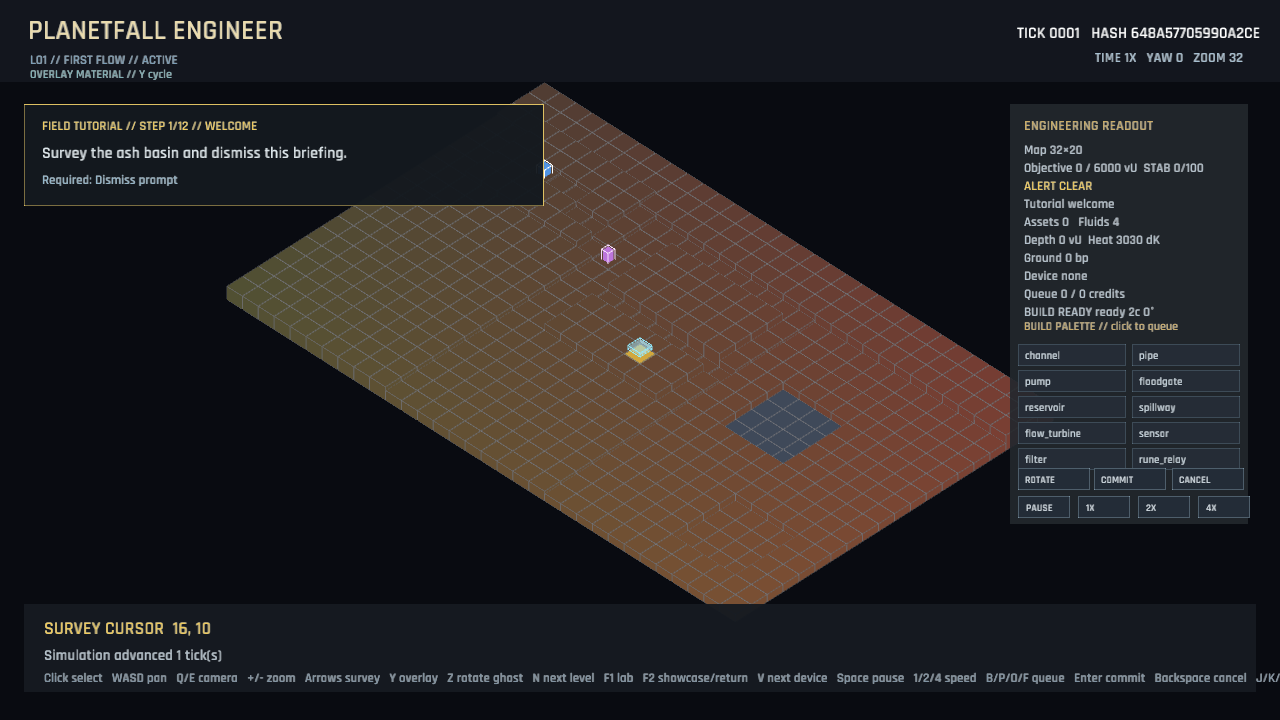
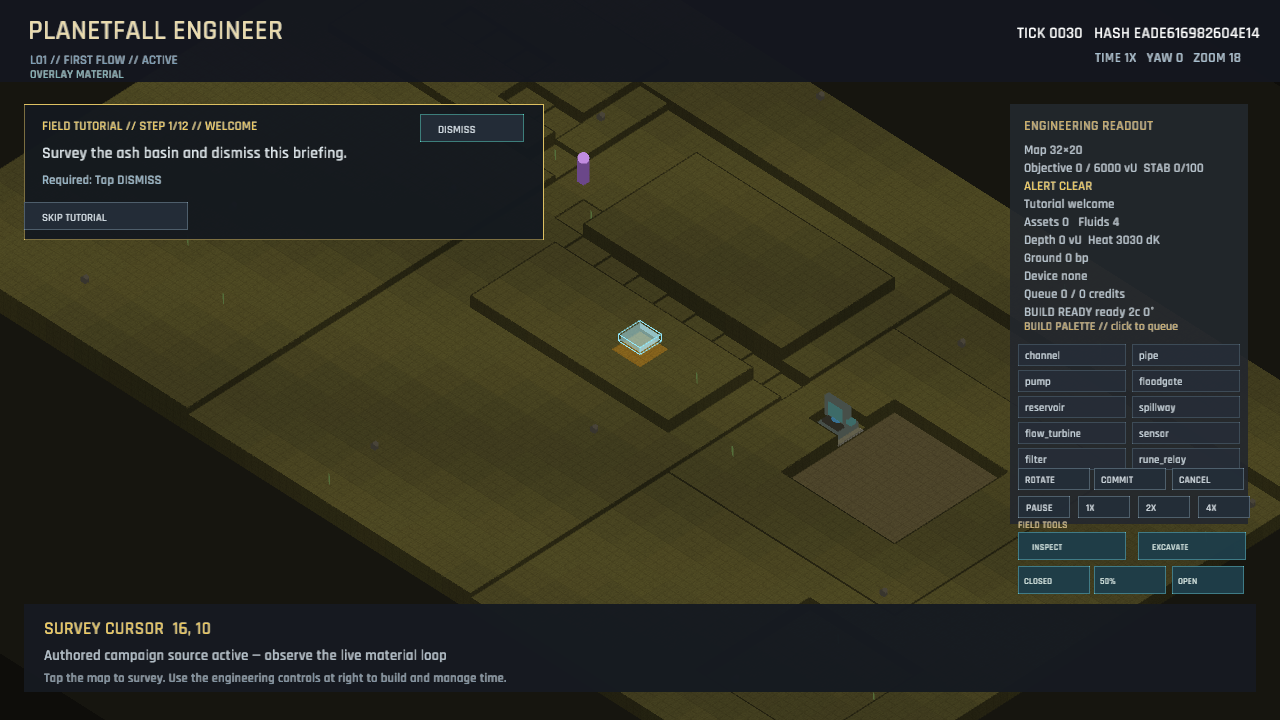
The survey camera finds terraces, channels, and machinery instead of a board (campaign diorama visuals)
Campaign captures framed entire maps as flat debug grids. Linear fluid depth produced tall colored blocks, protected zones repeated purple markers across every cell, conduit geometry ignored rotation, and L02/L03 lacked enough authored relief to communicate their routes.

Tighten the orthographic survey framing, add a grounded world apron and stepped terrain to the later maps, render shallow inset fluid surfaces with directional highlights, align pipe silhouettes, and replace marker grids with sparse expedition glyphs. The L01 source now uses hydraulic volume rather than a seven-step terrain tower, while preserving its gated 6,000 vU solution.

Regenerate the three active campaign captures after visual inspection. Verified with 72 tests and publish.ps1 for Windows/WebGL preview deployment.

diff --git a/src/game_render.rs b/src/game_render.rs
@@ -12,7 +12,7 @@ use macroquad_toolkit::prelude::{begin_virtual_ui_frame, end_virtual_ui_frame};
 
 impl Game {
     pub fn draw(&mut self) {
-        clear_background(Color::new(0.035, 0.045, 0.065, 1.0));
+        clear_background(Color::new(0.055, 0.052, 0.040, 1.0));
         if self.frontend_mode != FrontendMode::Playing {
             begin_virtual_ui_frame(ui::LOGICAL_WIDTH, ui::LOGICAL_HEIGHT);
             self.draw_frontend();
@@ -44,6 +44,12 @@ impl Game {
     fn draw_world(&self) {
         let selected = self.session.selected;
         let world = &self.session.simulation;
+        draw_cube(
+            vec3(world.width as f32 * 0.5, -0.32, world.height as f32 * 0.5),
+            vec3(world.width as f32 + 18.0, 0.5, world.height as f32 + 18.0),
+            None,
+            Color::new(0.09, 0.085, 0.062, 1.0),
+        );
         // The simulation is deliberately read directly here.  A former
         // presentation copy made mission briefings show a generic board until
         // the first tick, which was especially damaging to the diorama view.
@@ -67,7 +73,7 @@ impl Game {
                 if self.overlay_mode == 0 && cell.surface_volume() == 0 {
                     draw_terrain_scatter(pos, h, self.session.mission.id);
                 }
-                let surface_depth = cell.surface_volume() as f32 * 0.0005;
+                let surface_depth = visual_fluid_depth(cell.surface_volume());
                 if surface_depth > 0.0 {
                     let material = cell.surface.first().unwrap();
                     draw_fluid_surface(x, y, h, surface_depth, material.fluid, world.tick);
@@ -123,18 +129,19 @@ impl Game {
                     base + 0.22,
                     source.position.y as f32 + 0.5,
                 ),
-                vec3(0.42, 0.44, 0.42),
+                vec3(0.56, 0.16, 0.56),
                 None,
-                color,
+                Color::new(0.18, 0.17, 0.14, 1.0),
             );
-            draw_cube_wires(
+            draw_sphere(
                 vec3(
                     source.position.x as f32 + 0.5,
-                    base + 0.22,
+                    base + 0.25,
                     source.position.y as f32 + 0.5,
                 ),
-                vec3(0.5, 0.5, 0.5),
-                WHITE,
+                0.18,
+                None,
+                color,
             );
         }
         for (index, definition) in self.session.simulation.definitions.iter().enumerate() {
@@ -144,17 +151,33 @@ impl Game {
             let x = (index % self.session.simulation.width as usize) as f32 + 0.5;
             let y = (index / self.session.simulation.width as usize) as f32 + 0.5;
             let height = self.session.simulation.cells[index].height_hu as f32 * 0.0005;
-            draw_cube(
-                vec3(x, height + 0.28, y),
-                vec3(0.34, 0.56, 0.34),
-                None,
-                Color::new(0.74, 0.46, 0.86, 1.0),
-            );
-            draw_cube_wires(
-                vec3(x, height + 0.28, y),
-                vec3(0.42, 0.64, 0.42),
-                Color::new(0.96, 0.86, 0.98, 1.0),
-            );
+            let pos = CellPos {
+                x: x.floor() as u16,
+                y: y.floor() as u16,
+            };
+            let is_beacon = self.session.mission.id == crate::mission::MissionId::L01FirstFlow
+                && pos == CellPos { x: 10, y: 6 };
+            if is_beacon {
+                draw_cube(
+                    vec3(x, height + 0.35, y),
+                    vec3(0.22, 0.7, 0.22),
+                    None,
+                    Color::new(0.42, 0.28, 0.54, 1.0),
+                );
+                draw_sphere(
+                    vec3(x, height + 0.76, y),
+                    0.15,
+                    None,
+                    Color::new(0.76, 0.55, 0.88, 1.0),
+                );
+            } else if (u32::from(pos.x) * 3 + u32::from(pos.y) * 5) % 11 == 0 {
+                draw_cube(
+                    vec3(x, height + 0.025, y),
+                    vec3(0.34, 0.045, 0.34),
+                    None,
+                    Color::new(0.52, 0.42, 0.50, 0.72),
+                );
+            }
         }
         for event in &self.session.simulation.events {
             let crate::simulation::SimEvent::MaterialReacted {
@@ -246,16 +269,35 @@ fn draw_fluid_surface(x: u16, y: u16, ground: f32, depth: f32, fluid: FluidId, t
             ground + depth.max(0.035) * 0.5 + 0.018,
             y as f32 + 0.5,
         ),
-        vec3(0.995, depth.max(0.035), 0.995),
+        vec3(0.94, depth.max(0.035), 0.94),
         None,
         color,
     );
     draw_cube(
         vec3(x as f32 + 0.5, ground + depth + 0.038, y as f32 + 0.5),
-        vec3(0.985, 0.012, 0.985),
+        vec3(0.91, 0.012, 0.91),
         None,
         lighten(color, 0.22 + ripple),
     );
+    let stripe = if (x + y) % 2 == 0 { 0.26 } else { -0.26 };
+    draw_cube(
+        vec3(
+            x as f32 + 0.5 + stripe,
+            ground + depth + 0.052 + ripple,
+            y as f32 + 0.5,
+        ),
+        vec3(0.18, 0.014, 0.035),
+        None,
+        lighten(color, 0.38),
+    );
+}
+
+fn visual_fluid_depth(volume_vu: u32) -> f32 {
+    if volume_vu == 0 {
+        0.0
+    } else {
+        0.055 + (volume_vu as f32 / 8_000.0).clamp(0.0, 1.0).sqrt() * 0.42
+    }
 }
 
 fn draw_steam(x: u16, y: u16, ground: f32, depth: f32, tick: u64) {
@@ -381,10 +423,19 @@ fn draw_device_silhouette(
     draw_cube(center - vec3(0.0, 0.24, 0.0), base, None, metal);
     match device {
         DeviceId::Pipe => {
-            draw_cube(center, vec3(0.88, 0.18, 0.24), None, brass);
+            let pipe_size = if rotation % 2 == 0 {
+                vec3(0.88, 0.18, 0.24)
+            } else {
+                vec3(0.24, 0.18, 0.88)
+            };
+            draw_cube(center, pipe_size, None, brass);
             draw_cube(
                 center + vec3(0.0, 0.12, 0.0),
-                vec3(0.95, 0.04, 0.12),
+                if rotation % 2 == 0 {
+                    vec3(0.95, 0.04, 0.12)
+                } else {
+                    vec3(0.12, 0.04, 0.95)
+                },
                 None,
                 glow,
             );
@@ -497,7 +548,7 @@ fn terrain_color(
     mission: crate::mission::MissionId,
 ) -> Color {
     if cell.sealed {
-        return Color::new(0.25, 0.29, 0.27, 1.0);
+        return Color::new(0.38, 0.37, 0.31, 1.0);
     }
     if cell.formed_rock_vu > 0 {
         return Color::new(0.18, 0.20, 0.21, 1.0);
@@ -505,9 +556,9 @@ fn terrain_color(
     let noise = ((x as f32 * 0.41 + y as f32 * 0.73).sin() + 1.0) * 0.035;
     match mission {
         crate::mission::MissionId::L03Firebreak => {
-            Color::new(0.27 + noise, 0.18 + noise * 0.5, 0.13, 1.0)
+            Color::new(0.29 + noise, 0.20 + noise * 0.55, 0.14 + noise * 0.2, 1.0)
         }
-        _ => Color::new(0.34 + noise, 0.31 + noise, 0.23 + noise * 0.4, 1.0),
+        _ => Color::new(0.31 + noise, 0.32 + noise, 0.22 + noise * 0.45, 1.0),
     }
 }
 fn darken(c: Color, value: f32) -> Color {
@@ -550,8 +601,8 @@ fn verification_label(mode: VerificationMode) -> &'static str {
 
 fn fluid_color(fluid: FluidId) -> Color {
     match fluid {
-        FluidId::Water => Color::new(0.12, 0.48, 0.9, 0.78),
-        FluidId::Lava => Color::new(0.95, 0.22, 0.06, 0.9),
+        FluidId::Water => Color::new(0.06, 0.38, 0.58, 0.82),
+        FluidId::Lava => Color::new(0.96, 0.31, 0.045, 0.92),
         FluidId::ToxicSlurry => Color::new(0.62, 0.72, 0.16, 0.86),
         FluidId::Steam => Color::new(0.76, 0.86, 0.92, 0.38),
     }

diff --git a/src/campaign.rs b/src/campaign.rs
@@ -105,7 +105,7 @@ fn author_l01(world: &mut SimulationWorld) {
             set_height(world, CellPos { x, y }, 0);
         }
     }
-    set_height(world, CellPos { x: 21, y: 8 }, 7_000);
+    set_height(world, CellPos { x: 21, y: 8 }, 250);
     // The single meltwater source sits immediately upstream of the authored
     // inlet gate, so the tutorial's gate action is the only way water reaches
     // the sealed restoration basin.
@@ -126,6 +126,20 @@ fn author_l01(world: &mut SimulationWorld) {
 fn author_l02(world: &mut SimulationWorld) {
     set_ambient(world, 2_930);
     world.add_source(CellPos { x: 5, y: 16 }, FluidId::Water, 100);
+    for y in 0..world.height {
+        for x in 0..world.width {
+            let height = if y < 4 {
+                1_750
+            } else if x > 29 {
+                1_250
+            } else if x > 10 && y < 14 {
+                1_100
+            } else {
+                850
+            };
+            set_height(world, CellPos { x, y }, height);
+        }
+    }
     // Low aquifer and raised central reserve make pumping legible at a glance.
     for y in 13..=19 {
         for x in 2..=8 {
@@ -166,27 +180,27 @@ fn author_l02(world: &mut SimulationWorld) {
     // Two pipe runs are intentionally broken into twelve obvious gaps. They
     // read as infrastructure rather than a generic empty board and leave the
     // player with meaningful connection work.
-    for pos in [
-        (6, 16),
-        (7, 16),
-        (8, 16),
-        (10, 16),
-        (12, 16),
-        (14, 16),
-        (16, 16),
-        (16, 15),
-        (16, 14),
-        (17, 14),
-        (17, 13),
-        (18, 13),
-        (18, 12),
-        (22, 8),
-        (24, 8),
-        (26, 8),
-        (28, 8),
-        (30, 8),
+    for (x, y, rotation) in [
+        (6, 16, 0),
+        (7, 16, 0),
+        (8, 16, 0),
+        (10, 16, 0),
+        (12, 16, 0),
+        (14, 16, 0),
+        (16, 16, 1),
+        (16, 15, 1),
+        (16, 14, 0),
+        (17, 14, 1),
+        (17, 13, 0),
+        (18, 13, 1),
+        (18, 12, 0),
+        (22, 8, 0),
+        (24, 8, 0),
+        (26, 8, 0),
+        (28, 8, 0),
+        (30, 8, 0),
     ] {
-        install_device(world, DeviceId::Pipe, CellPos { x: pos.0, y: pos.1 }, 0, 0);
+        install_device(world, DeviceId::Pipe, CellPos { x, y }, rotation, 0);
     }
     set_height(world, CellPos { x: 39, y: 18 }, 0);
 }
@@ -198,7 +212,15 @@ fn author_l03(world: &mut SimulationWorld) {
     for y in 0..world.height {
         for x in 0..world.width {
             let rim = x.min(y).min(world.width - 1 - x).min(world.height - 1 - y);
-            set_height(world, CellPos { x, y }, if rim < 3 { 2_000 } else { 900 });
+            let inner_noise = ((u32::from(x) * 17 + u32::from(y) * 31) % 5) as i16 * 70;
+            let height = if rim < 3 {
+                2_600
+            } else if rim < 6 {
+                1_800 + inner_noise
+            } else {
+                900 + inner_noise
+            };
+            set_height(world, CellPos { x, y }, height);
         }
     }
     for x in 5..=35 {
@@ -253,22 +275,22 @@ fn author_l03(world: &mut SimulationWorld) {
         0,
         10_000,
     );
-    for pos in [
-        (12, 5),
-        (13, 5),
-        (14, 5),
-        (16, 5),
-        (18, 5),
-        (20, 5),
-        (20, 7),
-        (20, 9),
-        (20, 11),
-        (20, 13),
-        (20, 15),
-        (21, 15),
-        (22, 15),
+    for (x, y, rotation) in [
+        (12, 5, 0),
+        (13, 5, 0),
+        (14, 5, 0),
+        (16, 5, 0),
+        (18, 5, 0),
+        (20, 5, 1),
+        (20, 7, 1),
+        (20, 9, 1),
+        (20, 11, 1),
+        (20, 13, 1),
+        (20, 15, 0),
+        (21, 15, 0),
+        (22, 15, 0),
     ] {
-        install_device(world, DeviceId::Pipe, CellPos { x: pos.0, y: pos.1 }, 0, 0);
+        install_device(world, DeviceId::Pipe, CellPos { x, y }, rotation, 0);
     }
     install_device(world, DeviceId::Channel, CellPos { x: 30, y: 9 }, 0, 0);
 }

diff --git a/src/game.rs b/src/game.rs
@@ -63,7 +63,7 @@ impl FoundationCamera {
             yaw: 0,
             // Keep the opening survey close enough that the player sees
             // terraces and machinery as a diorama, not an entire debug board.
-            zoom: (width.max(height) as f32 * 0.72).clamp(22.0, 40.0),
+            zoom: (width.max(height) as f32 * 0.52).clamp(18.0, 28.0),
         }
     }
     fn update(&mut self, dt: f32, width: usize, height: usize) -> bool {
